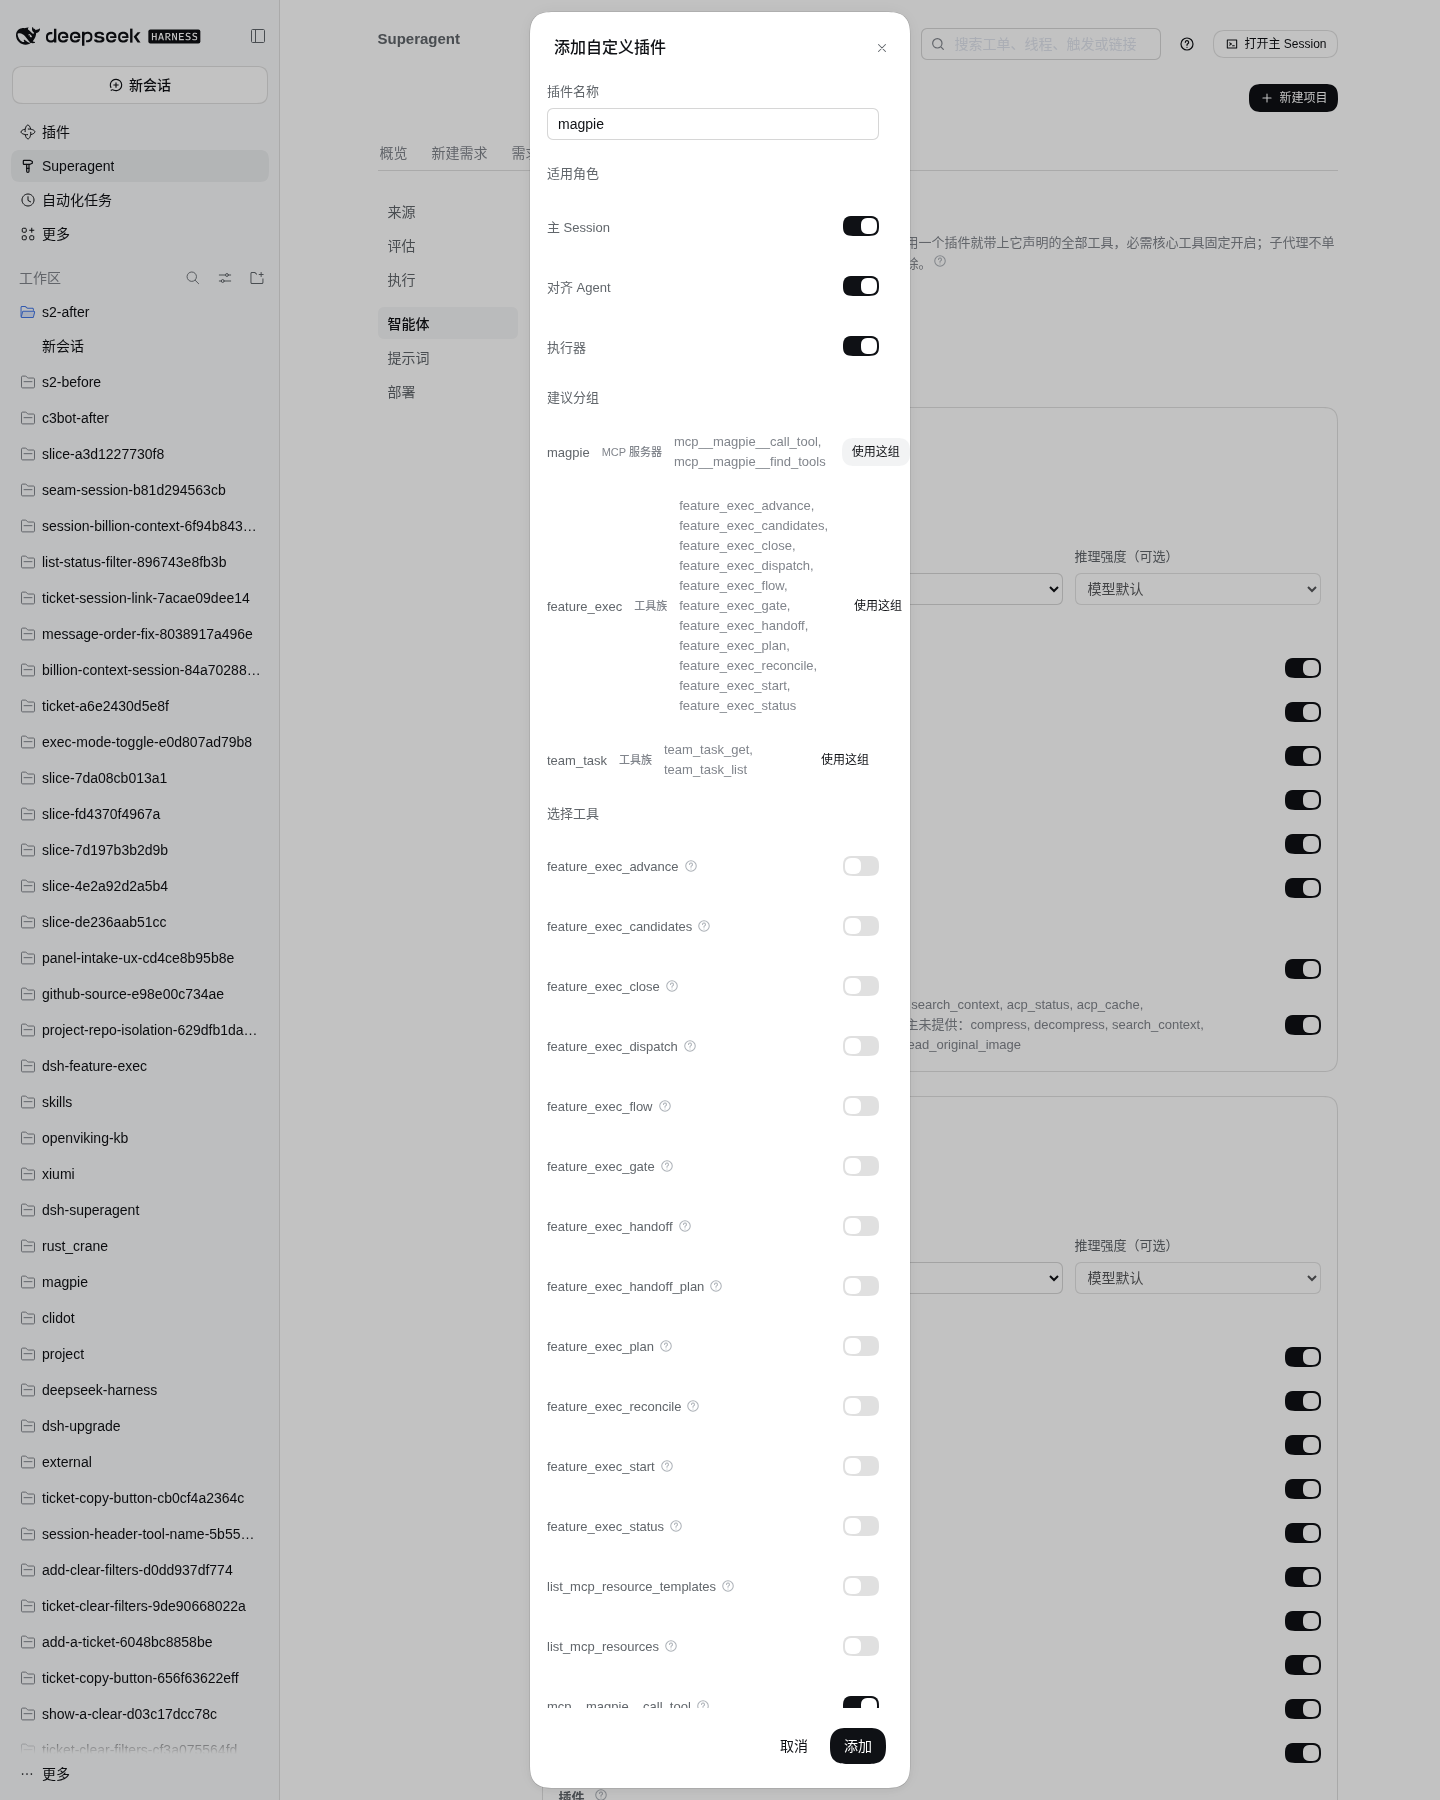
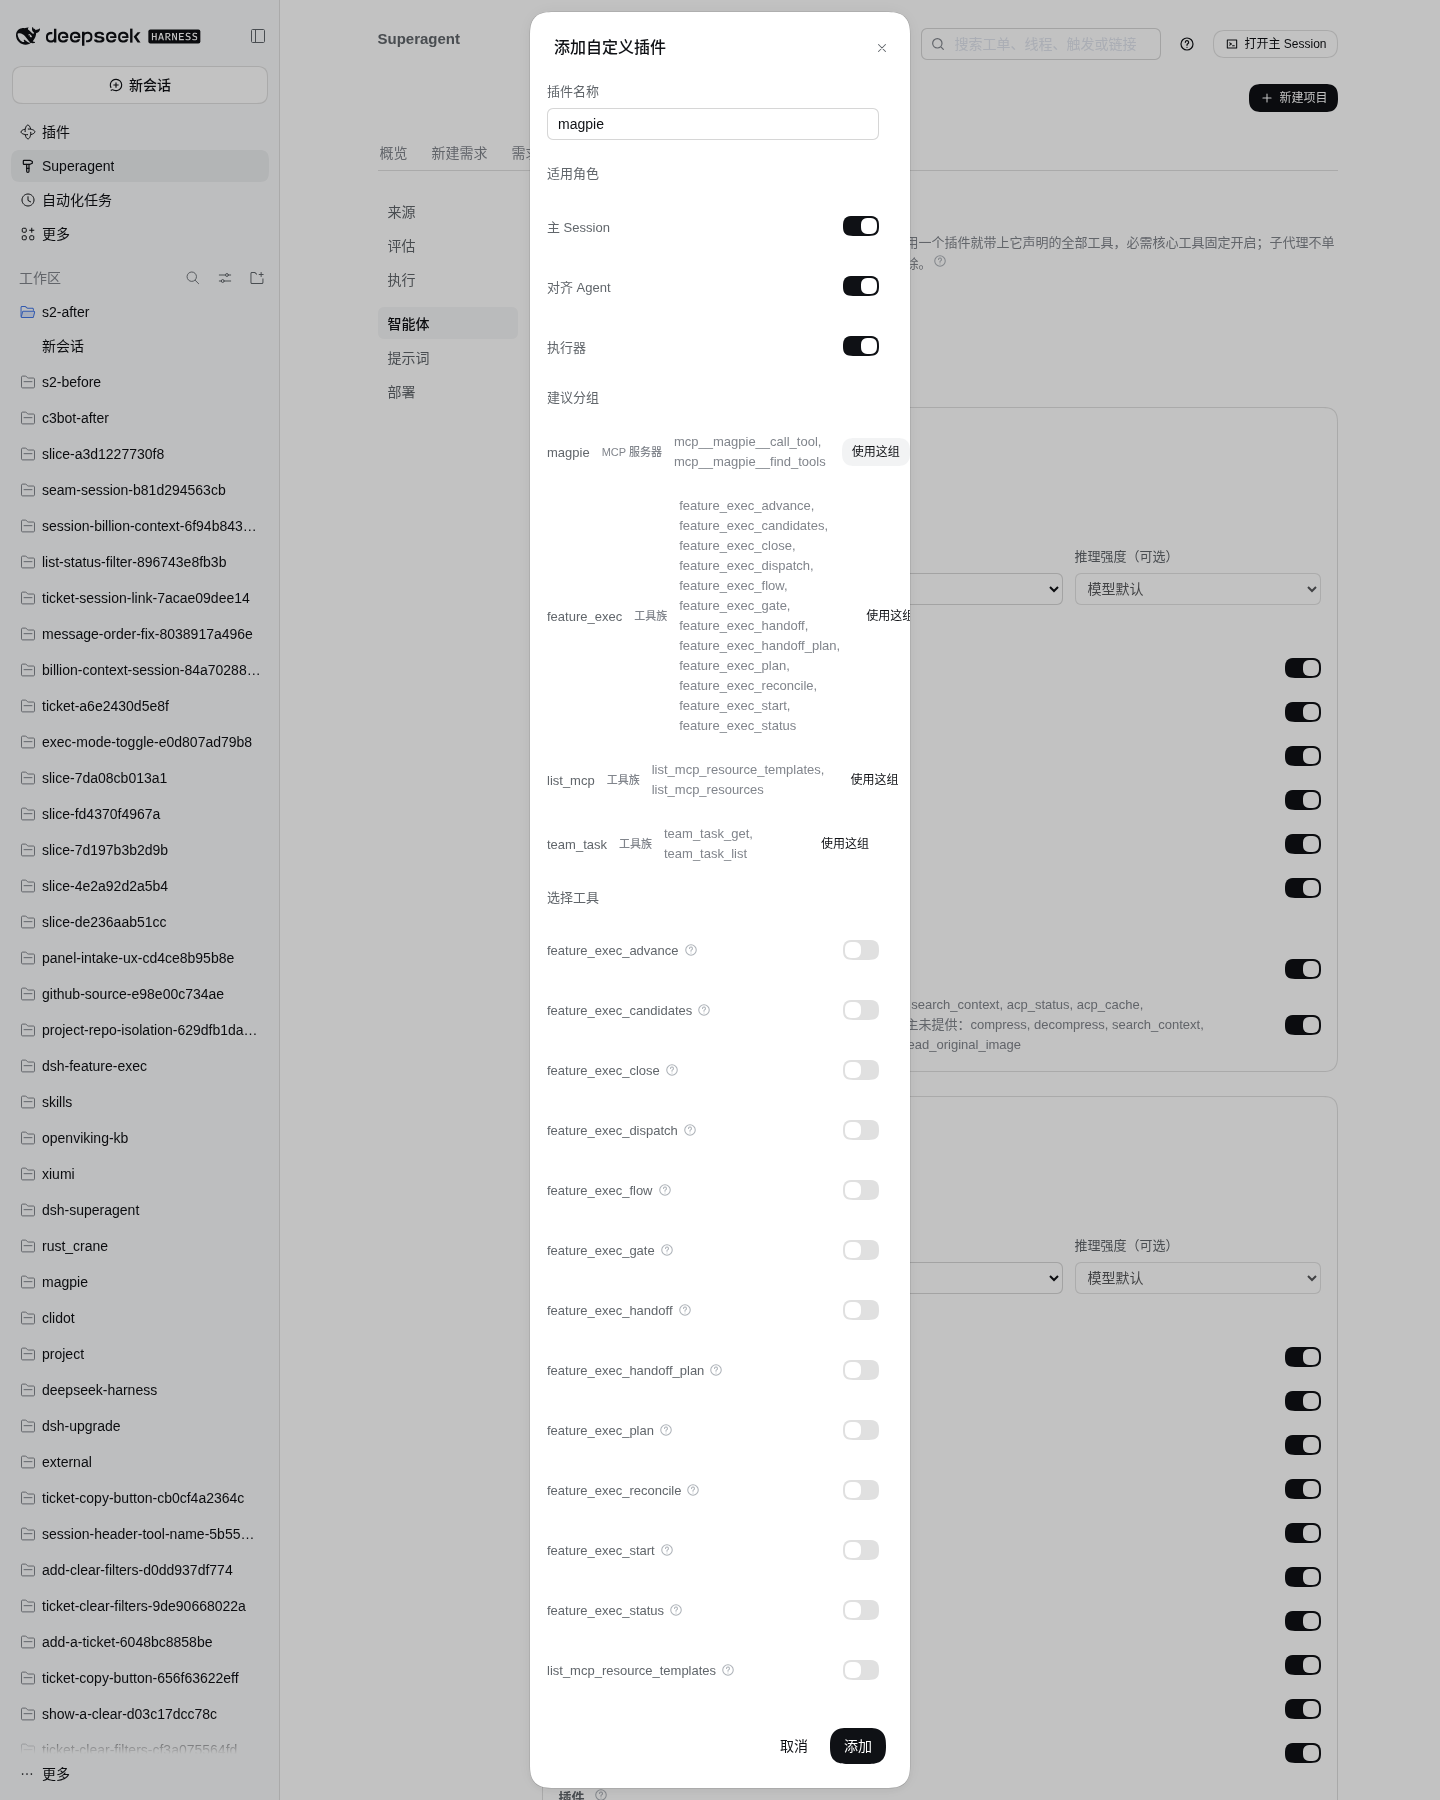
fix(agents): group a nested tool family under its shared prefix
The suggestion list now takes the most specific prefix another tool shares, so feature_exec_handoff_plan joins feature_exec instead of becoming a lone tool.

diff --git a/src/app/agent-tools.ts b/src/app/agent-tools.ts
@@ -179,20 +179,27 @@ export function pluginSuggestions(agents: AgentsConfig, registered: readonly Reg
     const tools = group.get(key)
     if (tools) tools.push(tool); else group.set(key, [tool])
   }
-  for (const tool of candidateTools(agents, registered)) {
+  const candidates = candidateTools(agents, registered)
+  const prefixes = new Map<string, number>()
+  const prefixesOf = (name: string) => {
+    const parts = name.split('_')
+    return parts.slice(0, -1).map((_, index) => parts.slice(0, index + 1).join('_'))
+  }
+  for (const tool of candidates) for (const prefix of prefixesOf(tool.name)) prefixes.set(prefix, (prefixes.get(prefix) ?? 0) + 1)
+  for (const tool of candidates) {
     const match = MCP_TOOL.exec(tool.name)
     if (match) { push(mcp, match[1]!, tool); continue }
-    const cut = tool.name.lastIndexOf('_')
-    if (cut > 0) { push(families, tool.name.slice(0, cut), tool); continue }
-    ungrouped.push(tool)
+    // The most specific prefix another tool shares, so `feature_exec_*` stays one family rather than splitting on a
+    // later segment; a tool with no shared prefix is offered on its own.
+    const shared = prefixesOf(tool.name).filter(prefix => (prefixes.get(prefix) ?? 0) > 1)
+    const family = shared.at(-1)
+    if (family) push(families, family, tool); else ungrouped.push(tool)
   }
   const suggestions: PluginSuggestion[] = [
     ...[...mcp.keys()].sort().map(name => ({ name, kind: 'mcp' as const, tools: [...mcp.get(name)!].sort(byName) })),
     ...[...families.keys()].filter(prefix => families.get(prefix)!.length > 1).sort()
       .map(name => ({ name, kind: 'family' as const, tools: [...families.get(name)!].sort(byName) })),
   ]
-  const grouped = new Set(suggestions.flatMap(suggestion => suggestion.tools.map(tool => tool.name)))
-  for (const tools of families.values()) for (const tool of tools) if (!grouped.has(tool.name)) ungrouped.push(tool)
   return { suggestions, ungroupedTools: ungrouped.sort(byName) }
 }
 /**

diff --git a/docs/evidence/agent-plugin-catalog/README.md b/docs/evidence/agent-plugin-catalog/README.md
@@ -7,7 +7,7 @@ viewport, theme, locale and seeded state; only the built `dsh-superagent` differ
 
 - **Before**: S1 as merged, `d74d21bf` (per-role plugin switches; no custom plugin add/delete), in `main` at
   `6ed55d10`.
-- **After**: the S2 ticket commit `0c3da4d6`, which is `main` `6ed55d10` plus the custom plugin catalog.
+- **After**: the S2 ticket commit `036ab096`, which is `main` `6ed55d10` plus the custom plugin catalog.
 - The final evidence commit may sit on a later head; the code under capture is the S2 commit named above, and the
   captures below are only added by this commit.
 
@@ -15,7 +15,7 @@ viewport, theme, locale and seeded state; only the built `dsh-superagent` differ
 
 ```sh
 git archive d74d21bf | tar -x -C /tmp/s2-before-src
-git archive 0c3da4d6 | tar -x -C /tmp/s2-after-src
+git archive 036ab096 | tar -x -C /tmp/s2-after-src
 (cd /tmp/s2-before-src && pnpm build)
 (cd /tmp/s2-after-src && pnpm build)
 ```
